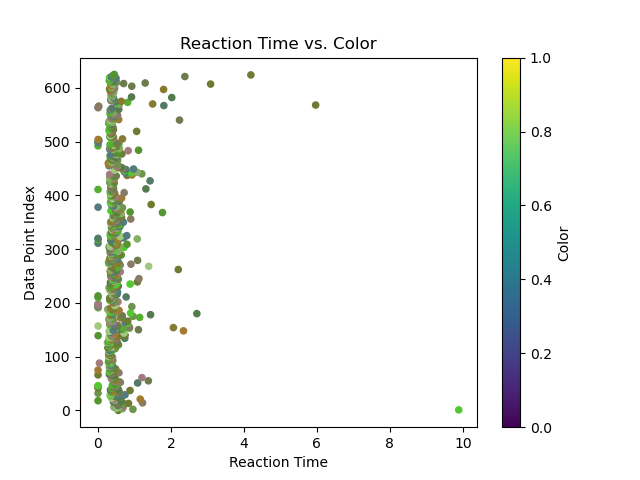
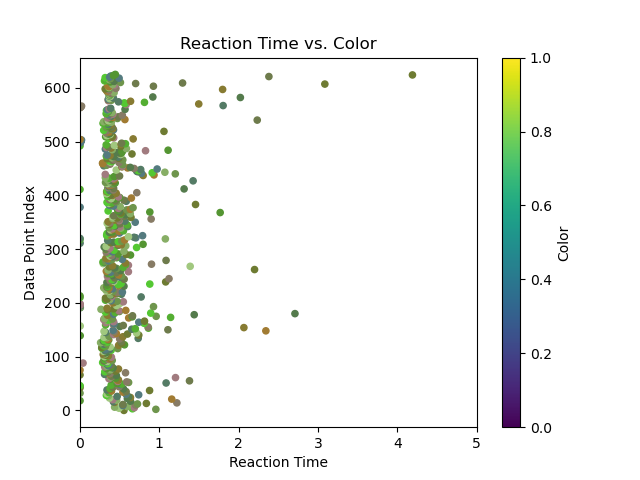
attention png

diff --git a/data_analysis.py b/data_analysis.py
@@ -28,9 +28,11 @@ def plot_reaction_time_vs_color(data, output_filename):
     plt.ylabel('Data Point Index')
     plt.title('Reaction Time vs. Color')
     plt.colorbar(label='Color')
-
+    plt.xlim((0,5))
     # Save the plot to a file
     plt.savefig(output_filename)
+
+## Doesnt work yet and its useless rn 
 
 # def rgb_string_to_tuple(rgb_string):
 #     # Expected format: "(R, G, B)"
@@ -93,5 +95,5 @@ def plot_memory_data(data, output_filename):
     # Save the plot to a file
     plt.savefig(output_filename)
 
-# plot_reaction_time_vs_color(attention, "attention_reaction_time_vs_color.png")
-plot_memory_data(memory, "memory_correct_vs_number_shown.png")
+plot_reaction_time_vs_color(attention, "attention_reaction_time_vs_color.png")
+# plot_memory_data(memory, "memory_correct_vs_number_shown.png")
